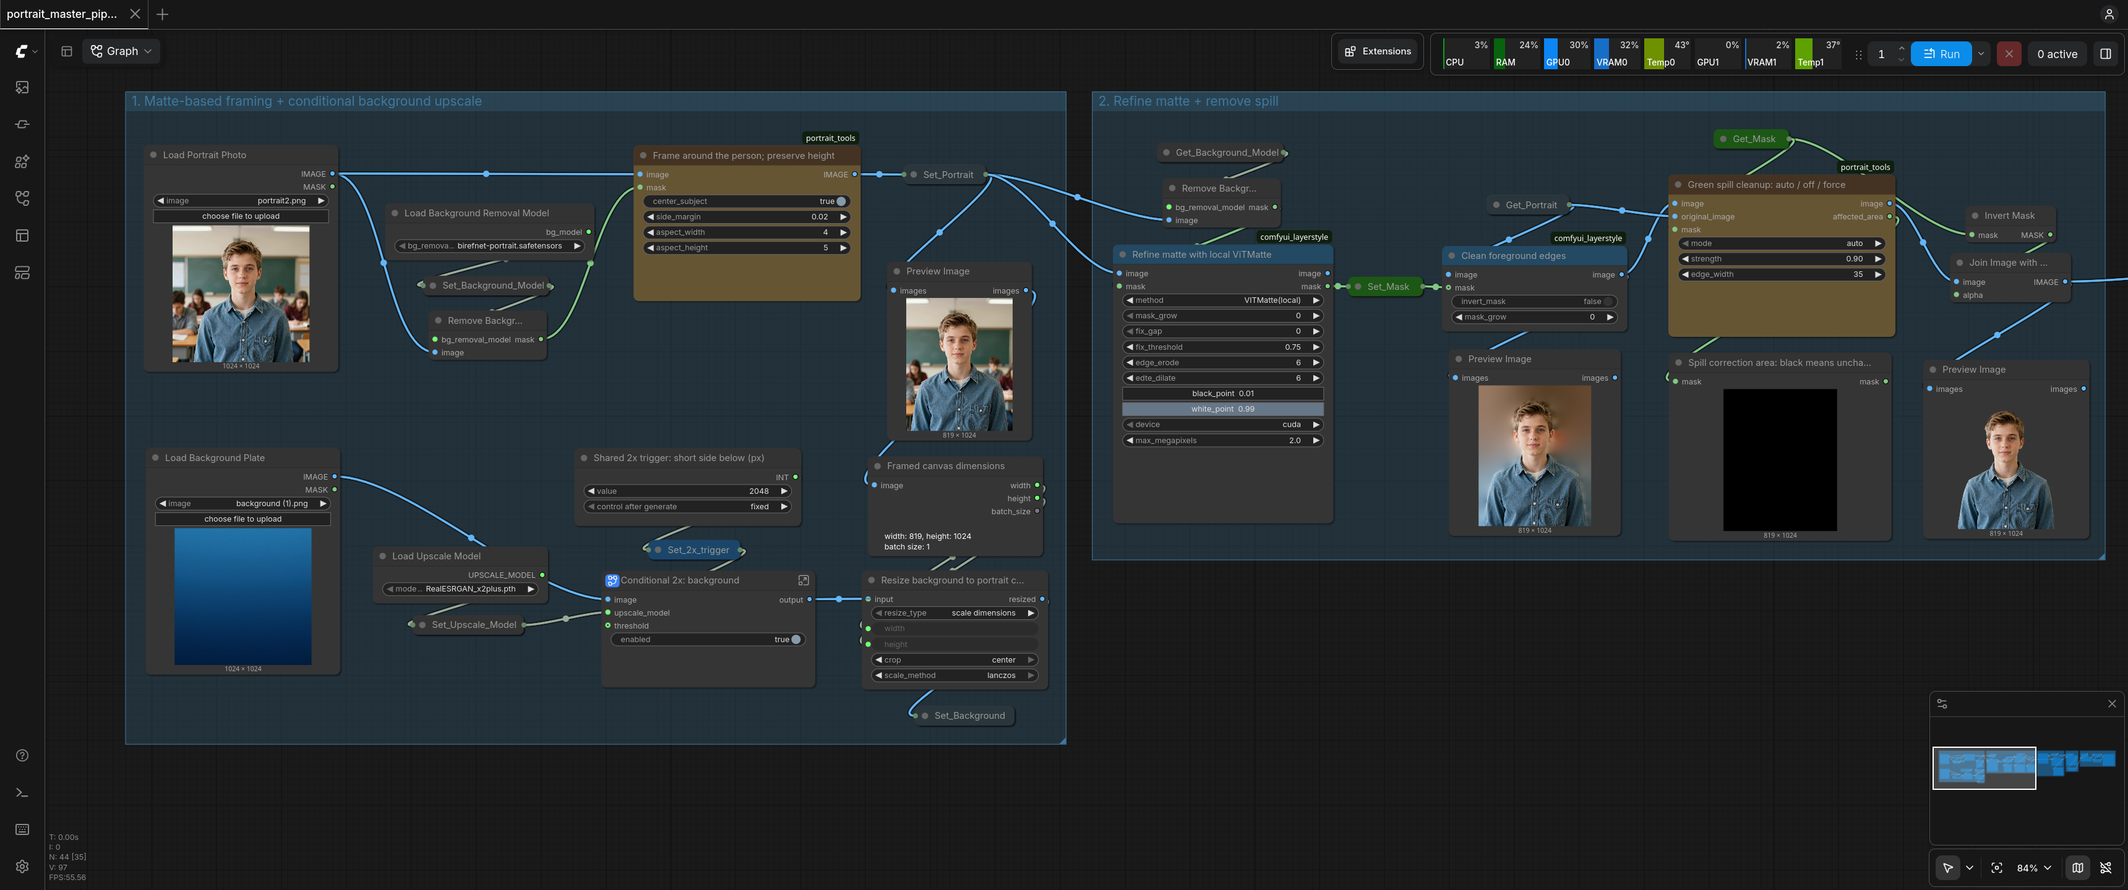
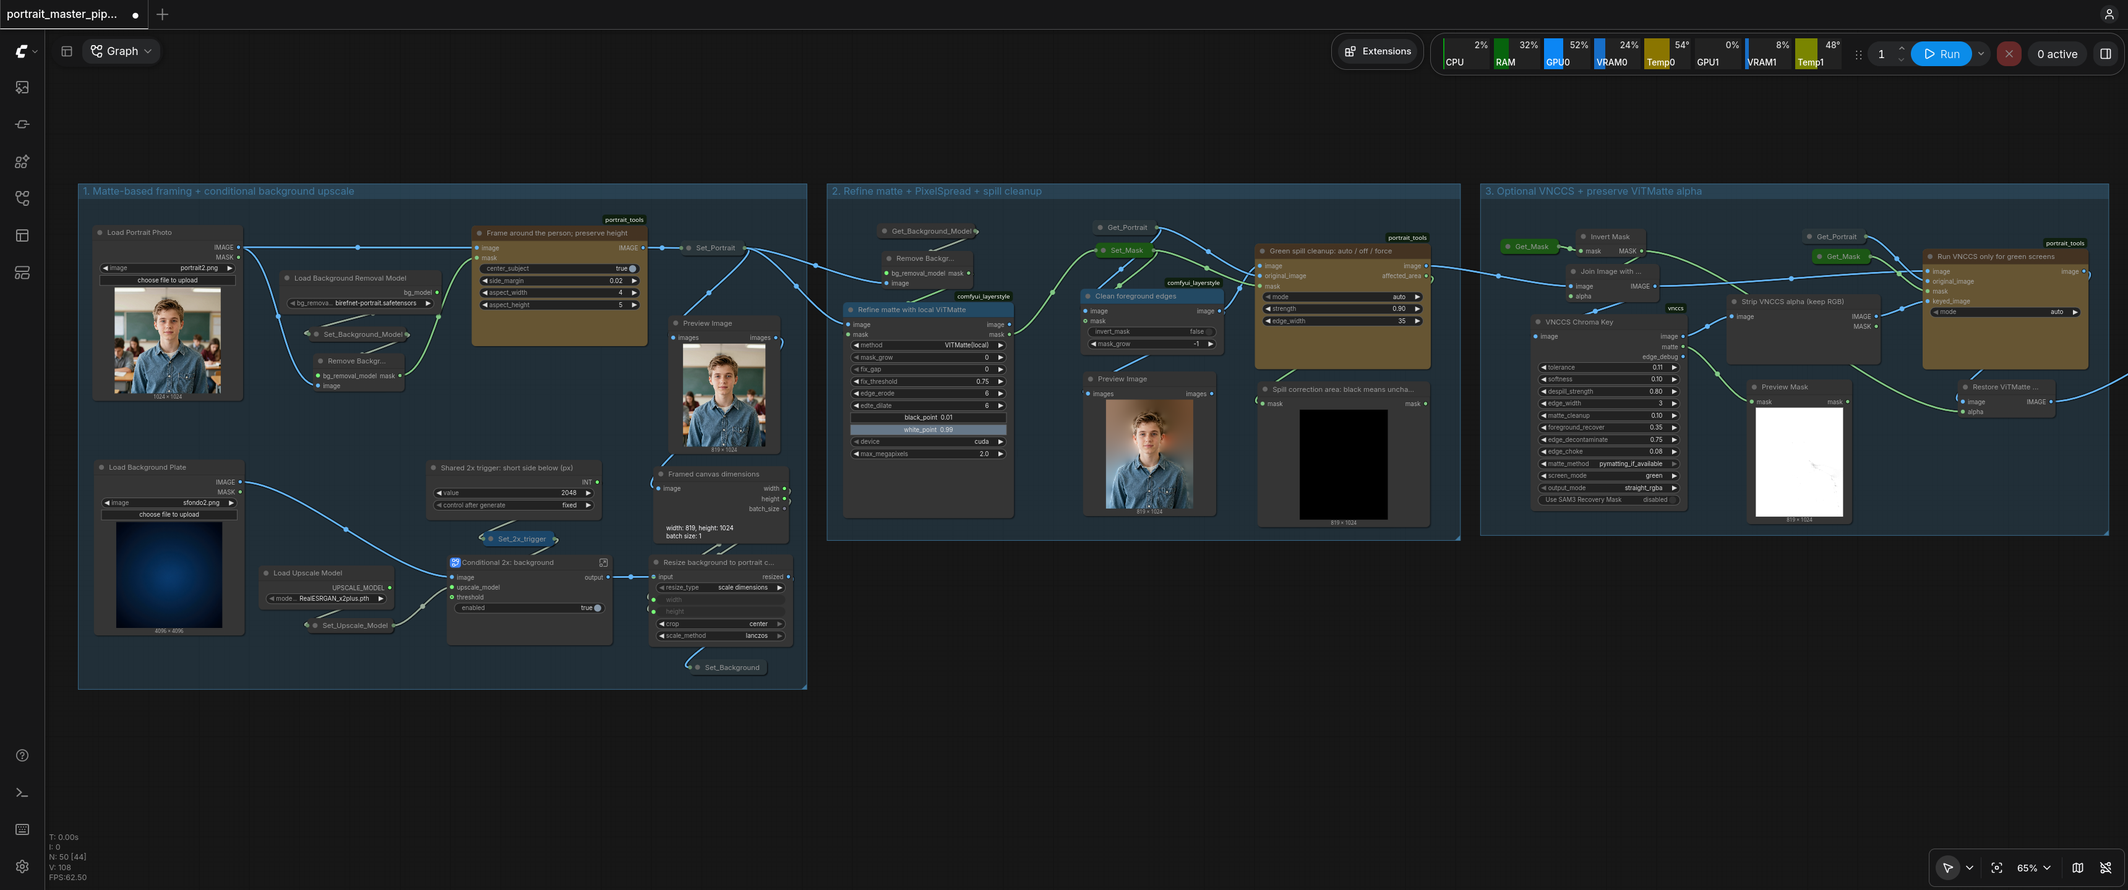
Add VNCCS to despill green screen.

diff --git a/custom_nodes/portrait_tools/__init__.py b/custom_nodes/portrait_tools/__init__.py
@@ -14,7 +14,7 @@ def linear_to_srgb(rgb):
     return torch.where(rgb <= 0.0031308, rgb * 12.92, 1.055 * rgb.clamp_min(0).pow(1 / 2.4) - 0.055).clamp(0, 1)
 
 
-def face_levels(image, mask, detector):
+def face_levels(image, mask, detector, label="portrait"):
     height, width = image.shape[:2]
     if tuple(mask.shape) != (height, width):
         raise ValueError("Portrait exposure: image and foreground mask must have matching dimensions.")
@@ -24,14 +24,20 @@ def face_levels(image, mask, detector):
     alpha = cv2.resize(mask.detach().cpu().numpy(), size, interpolation=cv2.INTER_AREA)
     gray = cv2.cvtColor(np.clip(rgb * 255, 0, 255).astype(np.uint8), cv2.COLOR_RGB2GRAY)
     faces = detector.detectMultiScale(gray, scaleFactor=1.1, minNeighbors=6, minSize=(48, 48))
+    if len(faces) == 0:
+        # Improve detection contrast only; measure exposure from the original RGB.
+        faces = detector.detectMultiScale(cv2.equalizeHist(gray), scaleFactor=1.1, minNeighbors=6, minSize=(48, 48))
+    detected = len(faces)
     faces = [box for box in faces if alpha[box[1]:box[1] + box[3], box[0]:box[0] + box[2]].mean() > 0.75]
     if len(faces) != 1:
+        logging.warning("Portrait exposure skipped: %s has %d detected face(s), %d inside the foreground mask; expected one. Exposure and contrast unchanged.", label, detected, len(faces))
         return None
     x, y, w, h = faces[0]
     yy, xx = np.ogrid[:size[1], :size[0]]
     oval = ((xx - x - w * 0.5) / (w * 0.33)) ** 2 + ((yy - y - h * 0.54) / (h * 0.38)) ** 2 < 1
     pixels = rgb[oval & (alpha > 0.98)]
     if len(pixels) < 64:
+        logging.warning("Portrait exposure skipped: %s face has too few opaque foreground pixels. Exposure and contrast unchanged; check its mask.", label)
         return None
     linear = np.where(pixels <= 0.04045, pixels / 12.92, ((pixels + 0.055) / 1.055) ** 2.4)
     luminance = linear @ np.array([0.2126, 0.7152, 0.0722], dtype=np.float32)
@@ -104,7 +110,7 @@ class PortraitExposureMatch:
     RETURN_TYPES = ("IMAGE",)
     FUNCTION = "match"
     CATEGORY = "image/portrait"
-    DESCRIPTION = "Match facial exposure and optionally contrast to one reference portrait in linear RGB, preserving channel ratios and alpha. No face or multiple faces in the source leaves it unchanged. Clipped detail cannot be recovered."
+    DESCRIPTION = "Match facial exposure and optionally contrast to one reference portrait in linear RGB, preserving channel ratios and alpha. Unreliable face detection in the source or reference skips matching with a warning. Clipped detail cannot be recovered."
 
     def match(self, image, mask, reference_image, reference_mask, strength, contrast_strength, max_exposure_stops):
         return match_reference(image, mask, reference_image, reference_mask, strength, strength * contrast_strength, strength * max_exposure_stops, strength * max_exposure_stops)
@@ -127,7 +133,7 @@ class PortraitExposureMatchV3:
     RETURN_TYPES = ("IMAGE",)
     FUNCTION = "match"
     CATEGORY = "image/portrait"
-    DESCRIPTION = "Match facial exposure and contrast independently. Brightening/darkening limits cap the exposure shift after strength; contrast pivots around the facial median. Zero exposure strength keeps that median without matching reference brightness. Both strengths at zero bypass correction. Reference selection is manual."
+    DESCRIPTION = "Match facial exposure and contrast independently. Brightening/darkening limits cap the exposure shift after strength; contrast pivots around the facial median. Zero exposure strength keeps that median without matching reference brightness. Both strengths at zero bypass correction. Unreliable source or reference face detection skips matching with a warning. Reference selection is manual."
 
     def match(self, image, mask, reference_image, reference_mask, exposure_strength, contrast_strength, max_brightening_stops, max_darkening_stops):
         return match_reference(image, mask, reference_image, reference_mask, exposure_strength, contrast_strength, max_brightening_stops, max_darkening_stops)
@@ -137,14 +143,13 @@ def match_reference(image, mask, reference_image, reference_mask, exposure_stren
     if exposure_strength == 0 and contrast_strength == 0:
         return (image,)
     detector = cv2.CascadeClassifier(cv2.data.haarcascades + "haarcascade_frontalface_default.xml")
-    ref = face_levels(reference_image[0], reference_mask[0], detector)
+    ref = face_levels(reference_image[0], reference_mask[0], detector, label="reference")
     if ref is None:
-        raise ValueError("Portrait exposure: choose a reference with one clear frontal face and a matching foreground mask.")
+        return (image,)
     results = []
     for b, frame in enumerate(image):
-        source = face_levels(frame, mask[min(b, len(mask) - 1)], detector)
+        source = face_levels(frame, mask[min(b, len(mask) - 1)], detector, label=f"portrait {b + 1}")
         if source is None:
-            logging.warning("Portrait exposure skipped: use a portrait with one clear frontal face.")
             results.append(frame)
             continue
         ev = float(np.clip(exposure_strength * np.log2(ref[1] / source[1]), -max_darkening_stops, max_brightening_stops))
@@ -181,6 +186,56 @@ def has_green_screen(image, mask):
     hues = cv2.cvtColor(rgb, cv2.COLOR_RGB2HSV)[..., 0][background & green]
     low, middle, high = np.quantile(hues, [0.25, 0.5, 0.75])
     return bool(75 <= middle <= 155 and high - low <= 20)
+
+
+
+
+class PortraitChromaKeyGate:
+    @classmethod
+    def INPUT_TYPES(cls):
+        return {"required": {
+            "image": ("IMAGE",),
+            "original_image": ("IMAGE",),
+            "mask": ("MASK",),
+            "keyed_image": ("IMAGE", {"lazy": True}),
+            "mode": (["auto", "off", "force green"],),
+        }}
+
+    RETURN_TYPES = ("IMAGE",)
+    RETURN_NAMES = ("image",)
+    FUNCTION = "select"
+    CATEGORY = "image/portrait"
+    DESCRIPTION = "Run VNCCS only when a green screen is detected. Auto skips VNCCS for non-green photos; off always skips it; force green always runs it. Reattach the ViTMatte alpha downstream."
+
+    def _should_key(self, original_image, mask, mode):
+        if mode not in ("auto", "off", "force green"):
+            raise ValueError("Portrait chroma key: mode must be auto, off, or force green.")
+        if mode == "off":
+            return [False] * len(original_image)
+        if mode == "force green":
+            return [True] * len(original_image)
+        if original_image.shape[1:3] != mask.shape[-2:]:
+            raise ValueError("Portrait chroma key: original photo and mask must have matching dimensions.")
+        return [has_green_screen(frame, mask[min(i, len(mask) - 1)])
+                for i, frame in enumerate(original_image)]
+
+    def check_lazy_status(self, image, original_image, mask, mode, keyed_image=None):
+        if keyed_image is None and any(self._should_key(original_image, mask, mode)):
+            return ["keyed_image"]
+        return []
+
+    def select(self, image, original_image, mask, mode, keyed_image=None):
+        decisions = self._should_key(original_image, mask, mode)
+        if not any(decisions):
+            return (image[..., :3],)
+        if keyed_image is None:
+            raise ValueError("Portrait chroma key: connect the VNCCS image output.")
+        if image.shape[:3] != keyed_image.shape[:3]:
+            raise ValueError("Portrait chroma key: base and VNCCS images must have matching dimensions.")
+        return (torch.stack([
+            keyed_image[i, ..., :3] if active else image[i, ..., :3]
+            for i, active in enumerate(decisions)
+        ]),)
 
 
 class PortraitGreenSpill:
@@ -238,10 +293,12 @@ NODE_CLASS_MAPPINGS = {
     "PortraitExposureMatch": PortraitExposureMatch,
     "PortraitExposureMatchV3": PortraitExposureMatchV3,
     "PortraitGreenSpill": PortraitGreenSpill,
+    "PortraitChromaKeyGate": PortraitChromaKeyGate,
 }
 NODE_DISPLAY_NAME_MAPPINGS = {
     "PortraitMatteFrame": "Portrait: Frame from Matte",
     "PortraitExposureMatch": "Portrait: Match Reference Exposure",
     "PortraitExposureMatchV3": "Portrait: Match Reference Exposure V3",
     "PortraitGreenSpill": "Portrait: Green Spill Cleanup",
+    "PortraitChromaKeyGate": "Portrait: Auto VNCCS on Green Screens",
 }

diff --git a/tests/test_portrait_tools.py b/tests/test_portrait_tools.py
@@ -1,7 +1,7 @@
 import importlib.util
 from pathlib import Path
 import unittest
-from unittest.mock import patch
+from unittest.mock import Mock, patch
 
 import numpy as np
 import torch
@@ -81,6 +81,42 @@ class GreenSpillTests(unittest.TestCase):
             self.node.despill(self.foreground, self.original, self.mask[:, :64], "auto", 1, 12)
 
 
+
+
+class ChromaKeyGateTests(unittest.TestCase):
+    def setUp(self):
+        self.mask = torch.zeros(1, 64, 64)
+        self.mask[:, 16:48, 16:48] = 1
+        self.screen = torch.full((1, 64, 64, 3), 0.3)
+        self.screen[:] = torch.tensor([0.1, 0.6, 0.1])
+        self.screen[:, 16:48, 16:48] = 0.3
+        self.gray = torch.full_like(self.screen, 0.3)
+        self.base = self.screen.clone()
+        self.keyed = torch.full_like(self.base, 0.2)
+        self.node = portrait.PortraitChromaKeyGate()
+
+    def test_auto_requests_vnccs_only_for_detected_green(self):
+        self.assertEqual(self.node.check_lazy_status(self.base, self.gray, self.mask, "auto"), [])
+        self.assertEqual(self.node.check_lazy_status(self.base, self.screen, self.mask, "auto"),
+                         ["keyed_image"])
+
+    def test_off_skips_and_force_green_runs_vnccs(self):
+        self.assertEqual(self.node.check_lazy_status(self.base, self.screen, self.mask, "off"), [])
+        self.assertEqual(self.node.check_lazy_status(self.base, self.gray, self.mask, "force green"),
+                         ["keyed_image"])
+        self.assertTrue(torch.equal(self.node.select(self.base, self.screen, self.mask, "off")[0], self.base))
+        self.assertTrue(torch.equal(self.node.select(self.base, self.gray, self.mask, "force green", self.keyed)[0],
+                                    self.keyed))
+
+    def test_mixed_batch_bypasses_keying_for_non_green_frames(self):
+        original = torch.cat((self.screen, self.gray))
+        base = original.clone()
+        keyed = torch.full_like(base, 0.2)
+        result, = self.node.select(base, original, self.mask, "auto", keyed)
+        self.assertTrue(torch.equal(result[0], keyed[0]))
+        self.assertTrue(torch.equal(result[1], base[1]))
+
+
 class ExposureTests(unittest.TestCase):
     def setUp(self):
         self.linear = torch.tensor([0.025, 0.05, 0.1, 0.2, 0.4]).view(1, 1, 5, 1).expand(-1, -1, -1, 3)
@@ -116,6 +152,17 @@ class ExposureTests(unittest.TestCase):
         with patch.object(portrait, "face_levels", side_effect=[self.source, None]):
             out = self.node.match(self.image, self.mask, self.image, self.mask, 1, 1, 0.5, 2)[0]
         self.assertTrue(torch.equal(out, self.image))
+
+    def test_unrecognized_reference_bypasses_entire_batch_and_preserves_alpha(self):
+        rgba = torch.cat((self.image, self.mask.unsqueeze(-1)), dim=-1).repeat(2, 1, 1, 1)
+        with patch.object(portrait, "face_levels", return_value=None) as measure:
+            out, = self.node.match(rgba, self.mask, self.image, self.mask, 1, 1, 0.5, 2)
+        self.assertIs(out, rgba)
+        self.assertEqual(measure.call_count, 1)
+
+    def test_reference_dimension_mismatch_still_reports_wiring_error(self):
+        with self.assertRaisesRegex(ValueError, "matching dimensions"):
+            self.node.match(self.image, self.mask, self.image, self.mask[:, :, :2], 1, 1, 0.5, 2)
 
     def test_legacy_settings_map_to_same_v3_transform(self):
         ref = np.array([0.08, 0.3, 0.7])

diff --git a/tests/test_portrait_batch.py b/tests/test_portrait_batch.py
@@ -79,5 +79,42 @@ class InputConversionTests(unittest.TestCase):
             self.assertEqual(output.read_bytes(), b"result")
 
 
+
+
+class GreenScreenWorkflowTests(unittest.TestCase):
+    def test_ui_and_api_route_rgb_through_lazy_gate_and_restore_vitmatte_alpha(self):
+        import json
+        ui = json.loads((batch.PROJECT_DIR / "workflow/portrait_master_pipeline_v3.json").read_text())
+        api = batch.load_workflow(batch.DEFAULT_WORKFLOW)
+        nodes = {n["id"]: n for n in ui["nodes"]}
+        links = {link[0]: link for link in ui["links"]}
+        self.assertEqual(api["208"]["inputs"]["image"], ["101", 0])
+        self.assertEqual(api["211"]["inputs"]["image"], ["208", 0])
+        self.assertEqual(api["213"]["inputs"]["keyed_image"], ["211", 0])
+        self.assertEqual(api["213"]["inputs"]["mode"], "auto")
+        self.assertEqual(api["212"]["inputs"], {"image": ["213", 0], "alpha": ["100", 0]})
+        self.assertEqual(api["46"]["inputs"]["image"], ["212", 0])
+        self.assertEqual(api["209"]["inputs"]["mask"], ["208", 1])
+        for lid, source, output, target, input_, _ in links.values():
+            self.assertIn(lid, nodes[source]["outputs"][output]["links"])
+            self.assertEqual(nodes[target]["inputs"][input_]["link"], lid)
+        self.assertEqual(nodes[213]["widgets_values"], ["auto"])
+
+    def test_batch_spill_mode_controls_vnccs_gate_and_existing_despill(self):
+        with tempfile.TemporaryDirectory() as folder:
+            root = Path(folder)
+            for mode in ("auto", "off", "force green"):
+                args = argparse.Namespace(**{**batch.DEFAULTS, "spill_mode": mode},
+                                          raw_cache_dir=str(root), center_subject=True, cutout=False)
+                with patch.object(batch, "upload_image", return_value="input.png"), \
+                        patch.object(batch, "queue_workflow", return_value={"final": {"filename": "out.png"}}) as queue, \
+                        patch.object(batch, "comfy_request", return_value=b"result"):
+                    batch.process_pair("http://unused", batch.DEFAULT_WORKFLOW, root / "portrait.png",
+                                       root / "bg.png", None, args, root / "out.png")
+                workflow = queue.call_args.args[1]
+                self.assertEqual(workflow["203"]["inputs"]["mode"], mode)
+                self.assertEqual(workflow["213"]["inputs"]["mode"], mode)
+
+
 if __name__ == "__main__":
     unittest.main()

diff --git a/portrait_batch.py b/portrait_batch.py
@@ -32,7 +32,7 @@ DEFAULTS = {
     "contrast_strength": 0.0, # 0.2
     "max_brightening_stops": 0.0, # 0.5,
     "max_darkening_stops": 0.0, # 2.0,
-    "spill_mode": "force green",
+    "spill_mode": "auto",
     "spill_strength": 0.9,
     "spill_edge_width": 35,
 }
@@ -137,9 +137,9 @@ def convert_input_image(path: Path, cache_dir: Path) -> Path:
 
 def load_workflow(path: Path, require_cutout: bool = False) -> dict:
     workflow = json.loads(path.read_text())
-    required = {"120", "125", "156", "180", "203", "46", "141:25", "160:25", "147"}
+    required = {"120", "125", "156", "180", "203", "208", "211", "212", "213", "46", "141:25", "160:25", "147"}
     if require_cutout:
-        # Node 207 is a PreviewImage fed by node 46 (the color-corrected, transparent-background cutout).
+        # Node 207 previews the color-corrected transparent cutout (46).
         required.add("207")
     missing = required.difference(workflow)
     if missing:
@@ -255,7 +255,8 @@ def arguments() -> argparse.Namespace:
     parser.add_argument("--contrast-strength", type=float, default=DEFAULTS["contrast_strength"])
     parser.add_argument("--max-brightening-stops", type=float, default=DEFAULTS["max_brightening_stops"])
     parser.add_argument("--max-darkening-stops", type=float, default=DEFAULTS["max_darkening_stops"])
-    parser.add_argument("--spill-mode", choices=("auto", "off", "force green"), default=DEFAULTS["spill_mode"])
+    parser.add_argument("--spill-mode", choices=("auto", "off", "force green"), default=DEFAULTS["spill_mode"],
+                        help="Skip VNCCS and spill cleanup when no green screen is detected (default: %(default)s).")
     parser.add_argument("--spill-strength", type=float, default=DEFAULTS["spill_strength"])
     parser.add_argument("--spill-edge-width", type=int, default=DEFAULTS["spill_edge_width"])
     parser.add_argument("--cutout", action="store_true", default=False,
@@ -300,6 +301,7 @@ def process_pair(base_url: str, workflow_path: Path, portrait: Path, background:
     set_widget(workflow, "156", "aspect_height", args.aspect_height)
     set_widget(workflow, "156", "center_subject", args.center_subject)
     set_widget(workflow, "203", "mode", args.spill_mode)
+    set_widget(workflow, "213", "mode", args.spill_mode)
     set_widget(workflow, "203", "strength", args.spill_strength)
     set_widget(workflow, "203", "edge_width", args.spill_edge_width)
     set_widget(workflow, "46", "exposure_strength", args.exposure_strength)

diff --git a/README.md b/README.md
@@ -12,17 +12,22 @@ Portrait workflow based on ComfyUI with a dedicated CLI batch tool.
 
 2. Through Manager, install **ComfyUI LayerStyle**, **ComfyUI-KJNodes**, and **VNCCS – Visual Novel Character Creation Suite**. KJNodes provides the UI workflow's Set/Get nodes.
 
-3. Stop ComfyUI and copy only `custom_nodes/portrait_tools` from this repo into `ComfyUI/custom_nodes/`. After the Manager installations finish, reinstall OpenCV contrib using ComfyUI's Python environment so its `cv2` files take precedence:
-
-   ```bash
-   python -m pip install --force-reinstall --no-deps opencv-contrib-python==4.14.0.94
-   ```
-
-   For Windows Portable, replace `python` with `.\python_embeded\python.exe` and run from the portable root. For a uv-managed environment without pip, use `uv pip install --python /path/to/ComfyUI/.venv/bin/python --reinstall --no-deps opencv-contrib-python==4.14.0.94`.
+3. Stop ComfyUI and copy `custom_nodes/portrait_tools` from this repo into `ComfyUI/custom_nodes/`. Its PyTorch, NumPy, and OpenCV imports are provided by ComfyUI and the installed node dependencies; there is no separate `portrait_tools` requirements file.
 
 4. Restart ComfyUI and open `workflow/portrait_master_pipeline_v3.json`. Use missing-model download links where offered, or download the [model files](MODELS.md) into the specified folders under ComfyUI's configured `models/` directory. Restart ComfyUI after adding model files.
 
 5. Select portrait, background, and reference images, then run the workflow. The portrait itself can also serve as the reference.
+
+> [!WARNING]
+> **Run this repair if startup reports `Cannot import name 'guidedFilter' from cv2.ximgproc`.** OpenCV's standard, headless, and contrib packages share the `cv2` module, so installing another variant can overwrite contrib's `guidedFilter`.
+>
+> Stop ComfyUI, then reinstall contrib using ComfyUI's Python:
+>
+> ```bash
+> python -m pip install --force-reinstall --no-deps opencv-contrib-python==4.14.0.94
+> ```
+>
+> For Windows Portable, use `python_embeded\python.exe` from the portable root. Restart ComfyUI after the reinstall.
 
 ## Run a batch
 
@@ -58,6 +63,8 @@ The script writes files such as `portrait_name__background_name.png` to the outp
 
 Add multiple backgrounds by listing them after `--backgrounds`, or by passing a folder containing them. An optional reference portrait for color correction can be supplied with `--reference`; when omitted, the portrait itself is used as the reference. Existing results are preserved with a numeric suffix instead of being overwritten.
 
+When exposure or contrast matching is enabled, the portrait and reference each need one measurable face. If face detection or foreground-mask coverage is insufficient, the script logs the reason and skips matching for that image; the rest of the workflow continues. Both matching strengths default to zero.
+
 Add `--cutout` to also save each portrait without a background as `portrait_name__cutout.png` (PNG with transparent alpha). The cutout is the color-corrected matte result from before the background composite. It depends only on the portrait and the reference, so each portrait produces a single cutout shared across all of its background combinations; a rerun skips cutouts that already exist on disk.
 
 The defaults are defined near the top of `portrait_batch.py` and can also be overridden for a run. For example:
@@ -68,6 +75,12 @@ python portrait_batch.py --portraits ./originals --backgrounds ./blue.png ./gray
   --aspect-width 1 --aspect-height 1 --no-background-upscale \
   --spill-strength 0.75
 ```
+
+## Green-screen cleanup
+
+The workflow runs BiRefNet and ViTMatte to create the foreground mask, then uses PixelSpread and Portrait Green Spill Cleanup to improve edge colors. VNCCS Chroma Key receives the cutout before exposure matching. Its corrected RGB is kept, but its alpha is discarded and the original ViTMatte alpha is restored. VNCCS's separate **matte** output is preview-only; the final composite still uses ViTMatte's mask. This avoids letting VNCCS remove green objects such as flags.
+
+`--spill-mode auto` is the batch default. It applies spill cleanup only when a green screen is detected and lazily skips VNCCS processing when none is detected. `--spill-mode off` bypasses both; `--spill-mode "force green"` applies both to every image. `--spill-strength` adjusts Portrait Green Spill Cleanup; VNCCS has separate settings in the workflow. Matting and PixelSpread run in every mode. In the ComfyUI UI, set the same mode on **Portrait: Green Spill Cleanup** and **Portrait: Auto VNCCS on Green Screens**.
 
 ## RAW and HEIC/HEIF files
 
@@ -85,4 +98,4 @@ The batch tool uses only Python's standard library. Apple Silicon can run the sa
 
 ## Updating the workflow
 
-Make and test graph changes in ComfyUI, save the UI workflow and export its API version, then replace both files in `workflow/`. Keep the node IDs used by `portrait_batch.py` (`120`, `125`, `156`, `141:25`, `160:25`, `180`, `203`, `46`, `147`, and `207` for `--cutout`) stable, or update the corresponding mappings in the script together with the workflow. Node `147` provides the final image; node `207` is a `PreviewImage` wired to node `46` for the transparent cutout.
+For layout-only changes, save the UI workflow to `workflow/portrait_master_pipeline_v3.json`; the batch API workflow does not contain node positions. For graph changes, test and update both workflow files. Keep the node IDs used by `portrait_batch.py` (`120`, `125`, `156`, `141:25`, `160:25`, `180`, `203`, `208`, `211`, `212`, `213`, `46`, `147`, and `207` for `--cutout`) stable, or update the script with them. Node `147` provides the final image; node `207` previews node `46` for the transparent cutout. Node `208` is VNCCS, node `213` gates VNCCS based on `--spill-mode`, and node `209` previews its matte.
